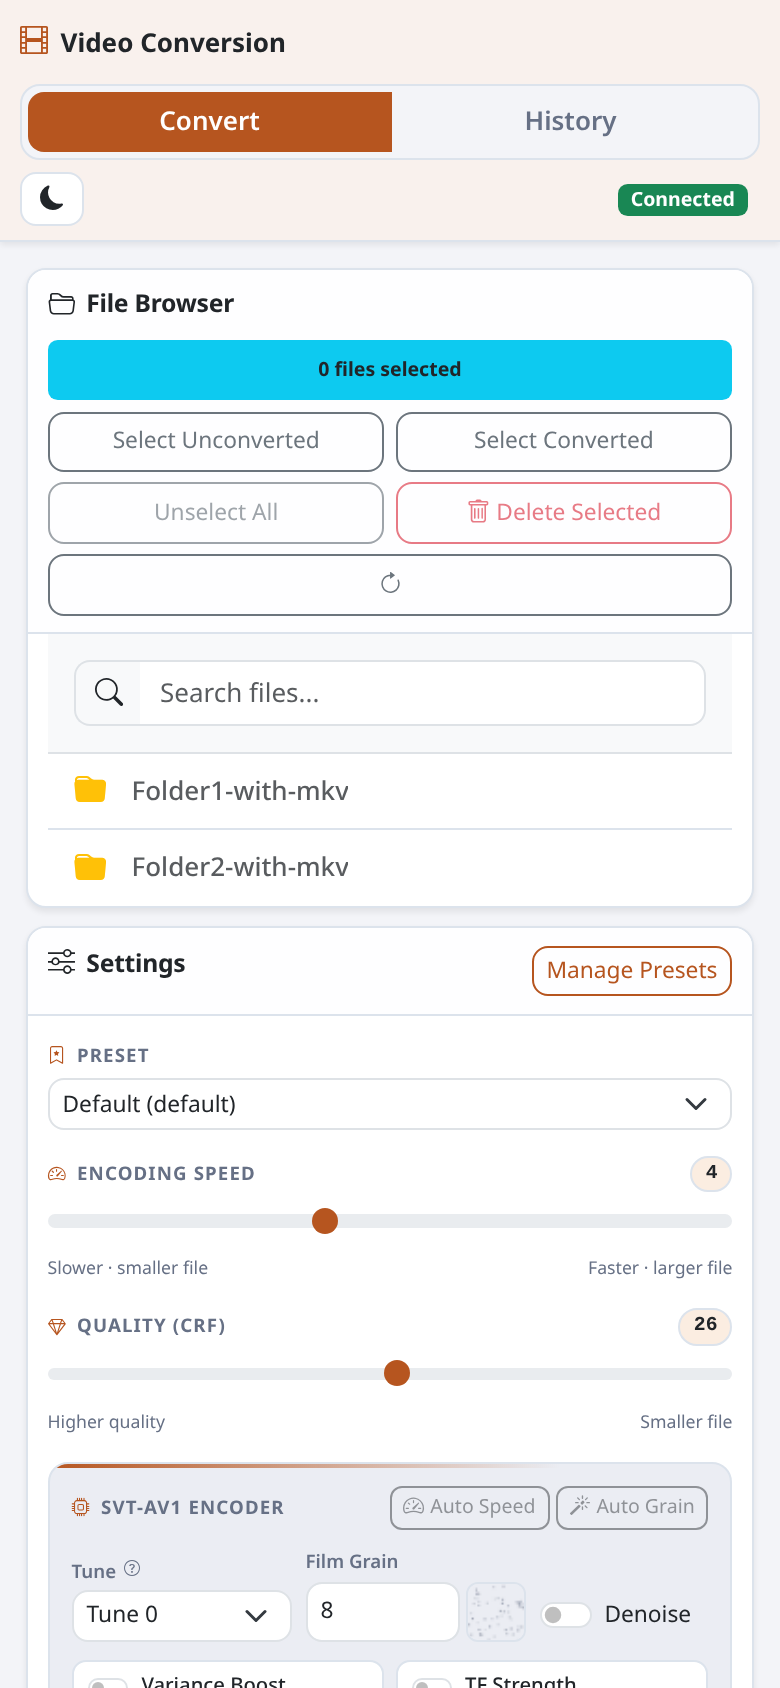
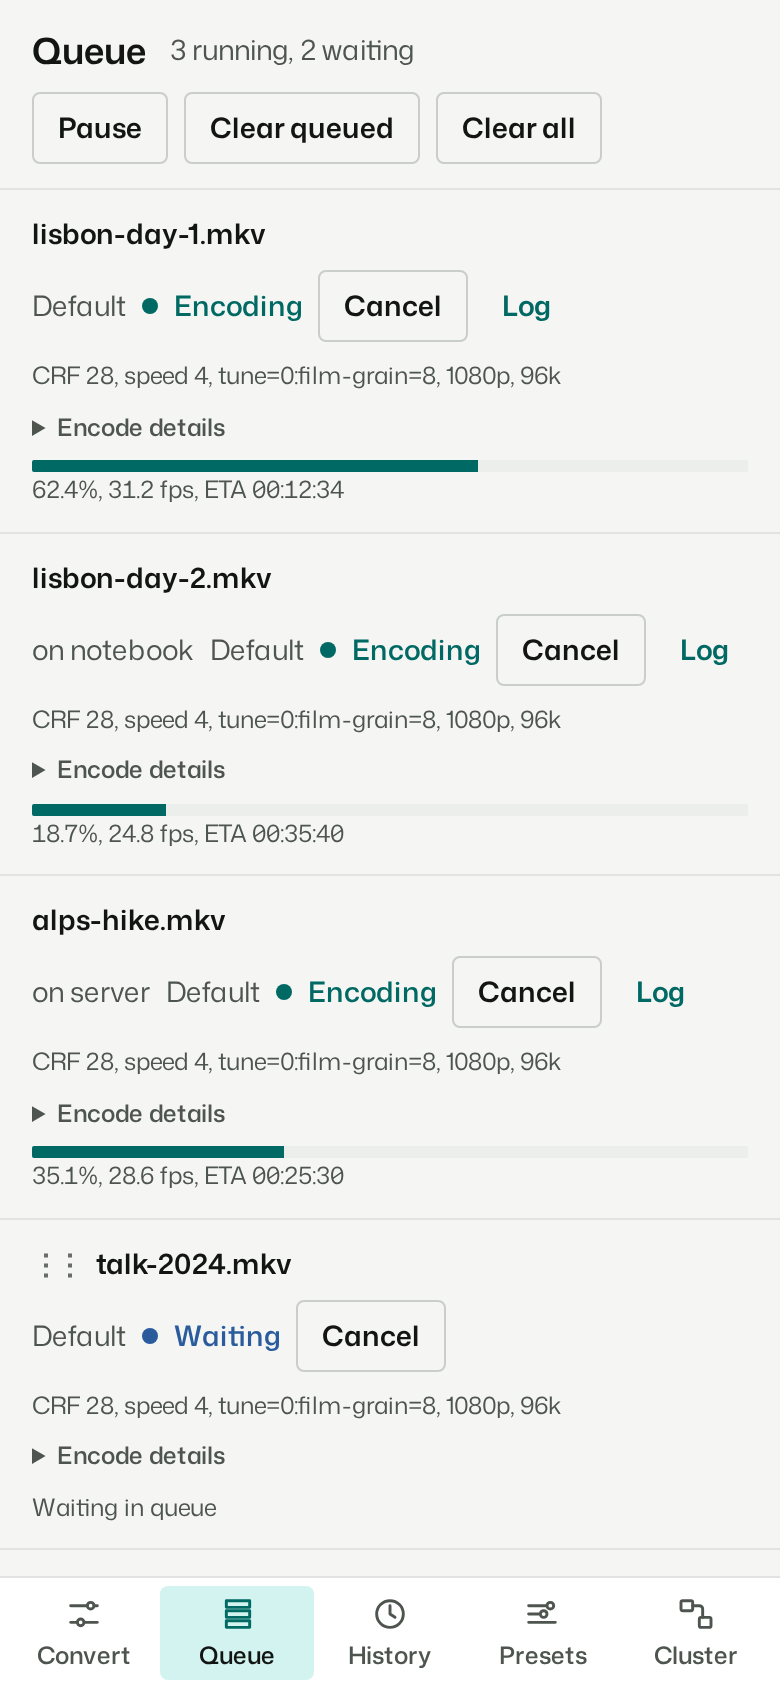
docs: refresh the readme screenshots (#162)

diff --git a/frontend/css/styles.css b/frontend/css/styles.css
@@ -1397,9 +1397,14 @@ input[type="range"] {
         gap: var(--s-2) var(--s-3);
     }
 
-    .work__actions {
+    .work__actions,
+    .job-item__actions {
         width: 100%;
         margin-left: 0;
+    }
+
+    .job-item__actions {
+        flex-wrap: wrap;
     }
 
     .files {
